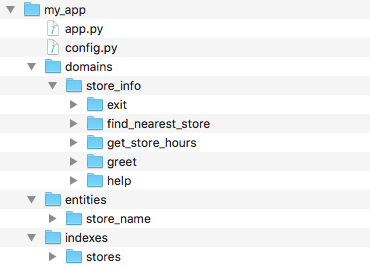
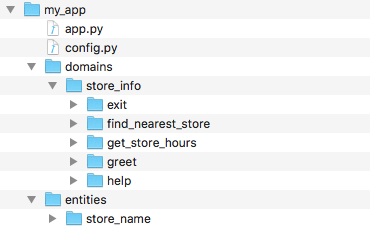
Remove all references to machine learned question answering for now.

diff --git a/docs/source/quickstart/06_generate_representative_training_data.rst b/docs/source/quickstart/06_generate_representative_training_data.rst
@@ -14,7 +14,6 @@ Six of the core supervised learning components in MindMeld Workbench rely on tra
   - Entity Recognition
   - Role Classification
   - Entity Resolution
-  - Question Answerer Ranking
 
 As described in :doc:`Step 3 <03_define_the_hierarchy>`, the structure of your application's root directory in Workbench organizes the training data files. For our example Kwik-E-Mart store information application, the application directory is shown below.
 
@@ -22,17 +21,15 @@ As described in :doc:`Step 3 <03_define_the_hierarchy>`, the structure of your a
     :width: 400px
     :align: center
 
-While training data is always stored in text files, there are three different types of data files used for training in Workbench. These types of training data files, and their mandatory locations, are described in the table below.
+While training data is always stored in text files, there are two different types of data files used for training in Workbench. These types of training data files, and their mandatory locations, are described in the table below.
 
 ==================== ====
 **Labeled Queries**  Labeled query files are text files containing example user queries. Workbench uses them to train the domain and intent classification models. Labeled query files also support an inline markup syntax for annotating entities and entity roles within each query. These annotations are used to train both the entity and role classification models. All labeled query files belong in the :keyword:`domains` folder. Each domain and intent subfolder should contain labeled query files that apply only to that intent. The hierarchical structure of the :keyword:`domains` folder provides the classification labels used to train the domain and intent classification models.
 
 **Entity Mappings**  Entity mappings are JSON files which associate whitelisted and blacklisted alternate names, or synonyms, with individual entities. Workbench uses entity mappings to train the models required for entity resolution. These files belong in the :keyword:`entities` folder.
-
-**Index Rankings**   Index rankings are JSON files which specify ranking scores for optimizing question answering ranking performance. Each entry in an index ranking file specifies the ranking score associated with a query-object pair, for a given object in the question answering knowledge base. These files belong in the :keyword:`indexes` folder within the subdirectory named for the relevant knowledge base index.
 ==================== ====
 
-We will now illustrate the typical structure for these three types of training data files.
+We will now illustrate the typical structure for these two types of training data files.
 
 
 Labeled Query Files
@@ -136,45 +133,4 @@ In this example, :keyword:`store_name_mapping.json` is the mapping file for the 
   ]
   ...
 
-The entity mapping file specifies a canonical name, or ``cname``, and a unique object ``id`` for the entity. Alternate names or synonyms by which users might refer to the entity are specified as items in the ``whitelist`` array. Workbench relies on the data specified in this file in order to associate each natural language entity with a unique and unambiguous concept. See the :ref:`User Manual <userguide>` for details.
-
-
-Index Ranking Files
-~~~~~~~~~~~~~~~~~~~
-
-Applications which use the Question Answerer component can optionally optimize the ranking of its underlying knowledge base. To do this, they need additional training data in the form of text files called *index ranking files*.
-
-Index ranking files must be placed in a standard location, which you find in the following way: In the application root directory, go into the :keyword:`indexes` folder, and there create a subfolder for each knowledge base index used by the question answerer. You can create one index ranking file in each subfolder. If Workbench finds an index ranking file in the standard location, Workbench uses the file to optimize the knowledge base ranking.
-
-Consider the following sample directory structure.
-
-.. image:: /images/directory6.png
-    :width: 400px
-    :align: center
-
-In this example, the ``stores`` index has the ranking file :keyword:`stores_ranking.json` shown below.
-
-.. code-block:: javascript
-
-  [
-    {
-      'query': 'Kwik-E-Marts in Springfield',
-      'id': '152323',
-      'rank': 3
-    },
-    {
-      'query': 'Kwik-E-Marts in Springfield',
-      'id': '102843',
-      'rank': 1
-    },
-    {
-      'query': 'stores downtown',
-      'id': '207492',
-      'rank': 1
-    },
-    ...
-
-  ]
-  ...
-
-For each specified ``query``, the ranking file provides a way to identify the ideal ``rank`` for the knowledge base object specified by its unique ``id``. See the :ref:`User Manual <userguide>` for more about optimizing Workbench question answering performance.
+The entity mapping file specifies a canonical name, or ``cname``, and a unique object ``id`` for the entity. Alternate names or synonyms by which users might refer to the entity are specified as items in the ``whitelist`` array. Workbench relies on the data specified in this file in order to associate each natural language entity with a unique and unambiguous concept. See the :ref:`User Guide <userguide>` for details.
